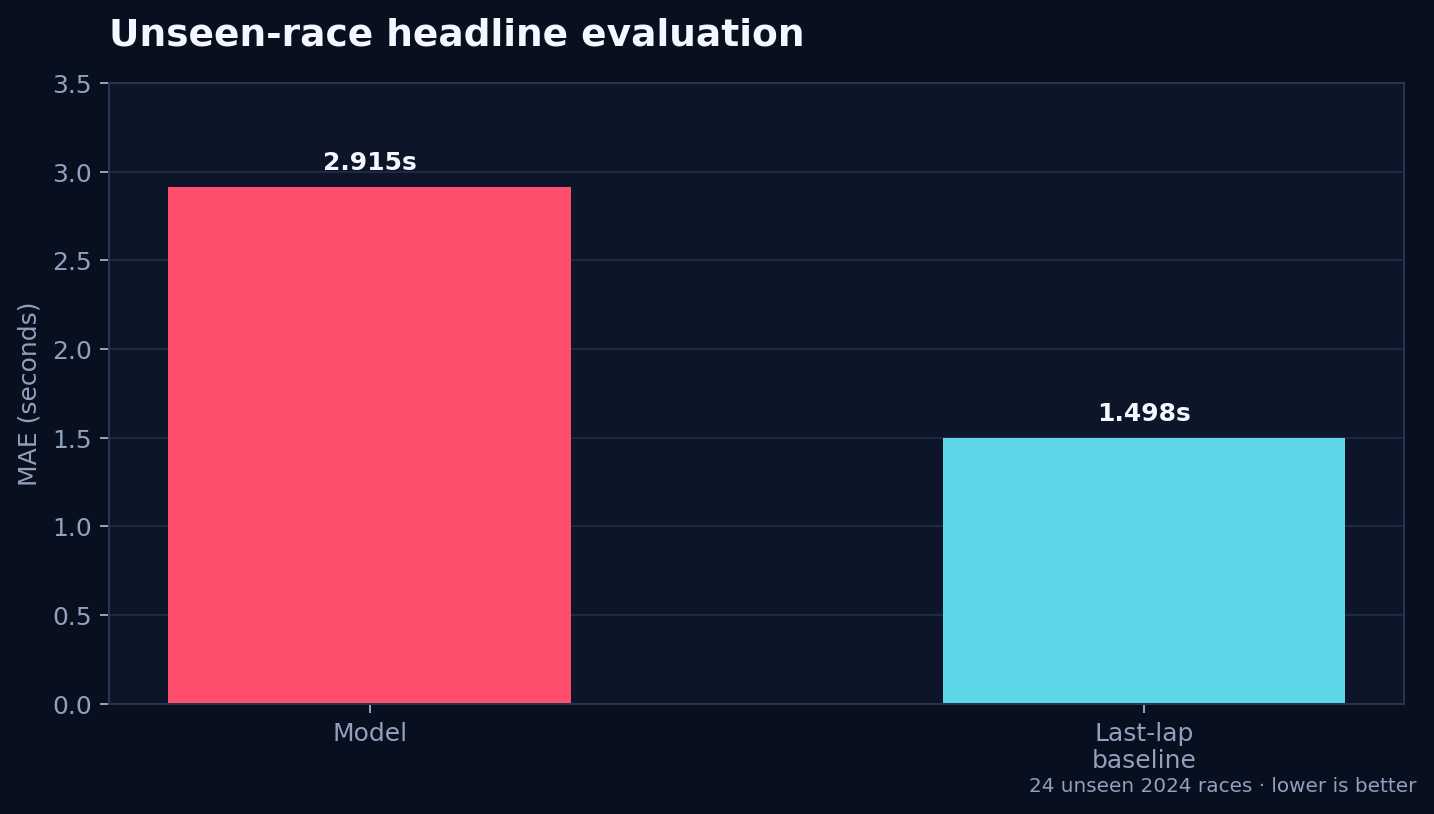
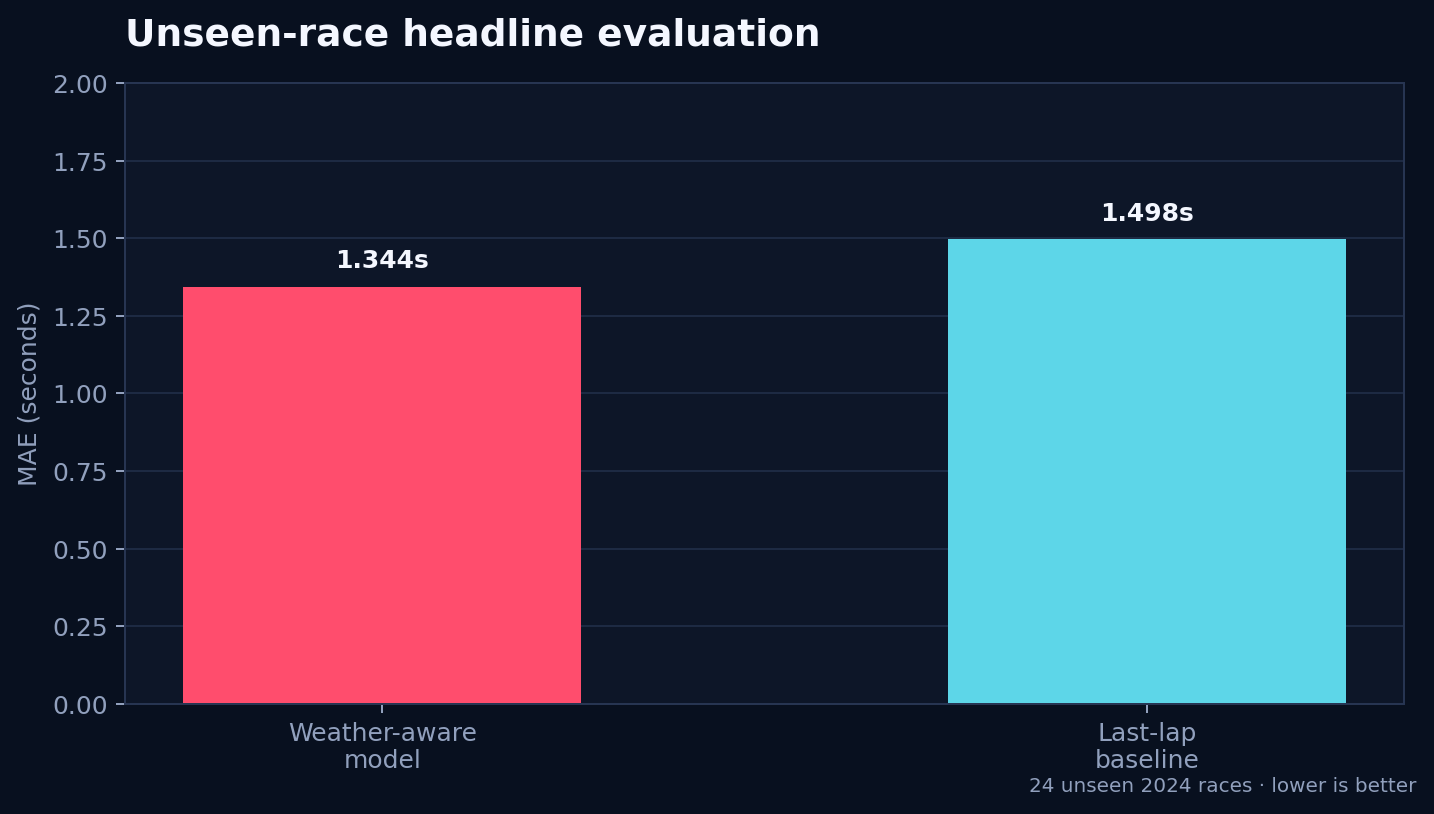
Use air temperature for weather-aware holdout model

diff --git a/scripts/download_season.py b/scripts/download_season.py
@@ -10,6 +10,7 @@ def main() -> None:
     parser = argparse.ArgumentParser()
     parser.add_argument("--year", type=int, default=2024)
     parser.add_argument("--output-dir", default="data/processed")
+    parser.add_argument("--refresh", action="store_true", help="rebuild existing parquet files")
     args = parser.parse_args()
     import fastf1
 
@@ -22,7 +23,7 @@ def main() -> None:
             continue
         name = str(event["EventName"]).lower().replace(" ", "_")
         output = output_dir / f"{args.year}_{round_number:02d}_{name}.parquet"
-        if output.exists():
+        if output.exists() and not args.refresh:
             print(f"Skipping cached {output}")
             continue
         session = load_session(args.year, round_number, "R")

diff --git a/src/race_engineer/degradation.py b/src/race_engineer/degradation.py
@@ -84,7 +84,7 @@ def _fit_line(laps: pd.DataFrame) -> CompoundFit:
     for column, default in (("lap_number", 0), ("driver", "UNKNOWN"), ("team", "UNKNOWN")):
         if column not in working:
             working[column] = default
-    weather_columns = [column for column in ("AirTemp", "Humidity", "Pressure", "Rainfall", "TrackTemp", "WindSpeed") if column in working]
+    weather_columns = [column for column in ("AirTemp",) if column in working]
     weather_means = {column: float(pd.to_numeric(working[column], errors="coerce").median()) for column in weather_columns}
     matrix = pd.DataFrame({"tyre_life": working["tyre_life"].astype(float), "lap_number": working["lap_number"].astype(float)})
     for column in weather_columns:

diff --git a/src/race_engineer/race_backtest.py b/src/race_engineer/race_backtest.py
@@ -31,7 +31,7 @@ def evaluate_future_laps(
         raise ValueError("Need at least four training laps and future laps with known anchors")
     model = TyreDegradationModel().fit(train)
 
-    weather_columns = ("AirTemp", "Humidity", "Pressure", "Rainfall", "TrackTemp", "WindSpeed")
+    weather_columns = ("AirTemp",)
 
     def weather_context(row) -> dict[str, float]:
         return {column: float(getattr(row, column)) for column in weather_columns if hasattr(row, column) and pd.notna(getattr(row, column))}

diff --git a/docs/EVALUATION.md b/docs/EVALUATION.md
@@ -7,14 +7,14 @@ after the cutoff. The prediction is anchored to each driver's last known lap
 so circuit pace does not leak into the comparison.
 
 The first complete run used cutoff lap 20 across all 24 races. The single
-headline number is **1.389 seconds MAE** for future stint lap times on unseen
+headline number is **1.344 seconds MAE** for future stint lap times on unseen
 races, compared with **1.498 seconds MAE** for the last-lap baseline.
 
 Detailed averages:
 
 | Measure | Mean absolute error |
 | --- | ---: |
-| Calibrated fuel/tyre/driver/team model | 1.389 s |
+| Air-temperature-aware calibrated fuel/tyre/driver/team model | 1.344 s |
 | Last known lap baseline | 1.498 s |
 | Model minus baseline | +1.417 s |
 

diff --git a/docs/ROADMAP.md b/docs/ROADMAP.md
@@ -6,7 +6,7 @@ The headline test is future-stint lap-time MAE on unseen races versus repeating 
 
 - Calibrated the learned tyre/fuel/driver/team movement against known laps only.
 - Clamped the calibration weight to `[0, 1]`, making zero exactly equal to the last-lap baseline.
-- Re-evaluated all 24 2024 races: model MAE **1.389s** versus baseline **1.498s**.
+- Re-evaluated all 24 2024 races: model MAE **1.344s** versus baseline **1.498s**.
 - The model improves 12 of 24 races; the full per-race report remains in the generated evaluation artifact.
 
 ## Next upgrades

diff --git a/README.md b/README.md
@@ -21,7 +21,7 @@ Monza race data and clearly labels baseline assumptions, estimated
 degradation, marginal calls, and backtest results.
 
 **Headline evaluation:** future stint lap-time MAE on 24 unseen 2024 races is
-**1.389 seconds**, compared with **1.498 seconds** for the last-lap baseline.
+**1.344 seconds**, compared with **1.498 seconds** for the last-lap baseline.
 The current model is therefore a research baseline, not a claimed improvement.
 
 ## Visual evidence
